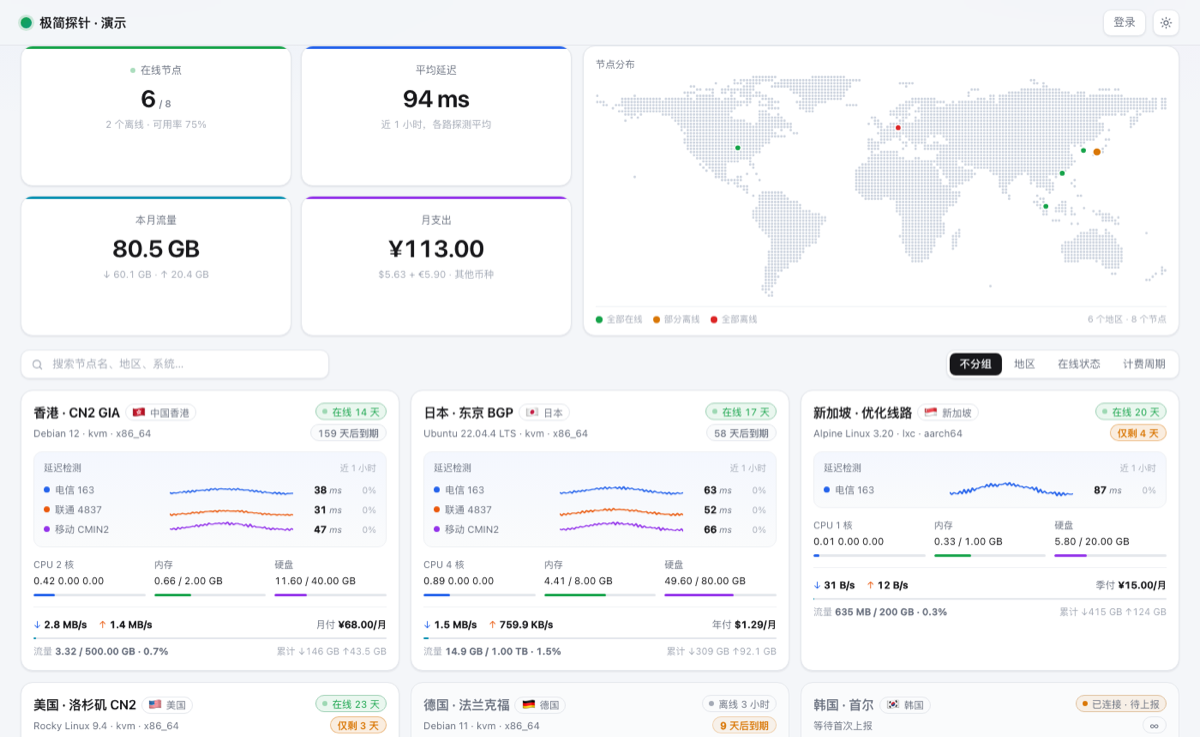
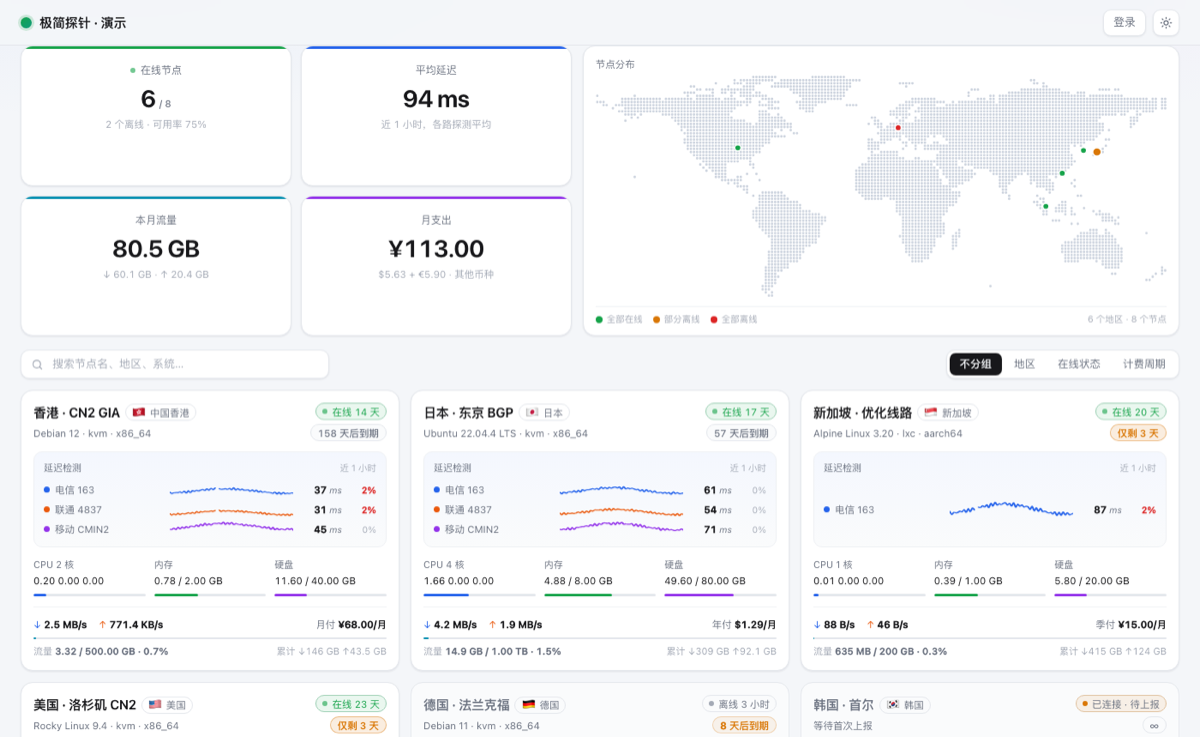
修复延迟检测行高跳动、加快波线加载、波线改平滑、修深色悬停阴影

diff --git a/minimal/dist/index.html b/minimal/dist/index.html
@@ -31,8 +31,11 @@ html.dark{
   --fg:#f2f3f5; --muted:#a1a7b3; --faint:#666c78;
   --ok:#22c55e; --warn:#f59e0b; --bad:#f87171; --accent:#60a5fa;
   --c1:#60a5fa; --c2:#fb923c; --c3:#c084fc; --c4:#22d3ee; --c5:#4ade80;
+  /* 深色下纯黑阴影落在近黑背景（--bg #0a0b0e）上几乎看不见，悬停就少了「抬起」的感觉。
+     补一圈极淡的浅色外描边 + 一点柔光：抬升在深色里也读得出来，而不只是边框变亮。 */
   --sh-1:0 1px 2px rgba(0,0,0,.5), 0 1px 3px rgba(0,0,0,.35);
-  --sh-2:0 14px 32px -12px rgba(0,0,0,.78), 0 3px 10px -4px rgba(0,0,0,.5);
+  --sh-2:0 16px 34px -14px rgba(0,0,0,.92), 0 4px 12px -5px rgba(0,0,0,.62),
+         0 0 0 1px rgba(255,255,255,.04), 0 0 24px -10px rgba(255,255,255,.07);
   --glow-1:rgba(96,165,250,.10); --glow-2:rgba(192,132,252,.075);
   --map-land:#2a3038;
 }
@@ -238,6 +241,13 @@ main{padding:18px 0 64px}
   background:linear-gradient(180deg,color-mix(in srgb,var(--c1) 5%,var(--panel)) 0%,var(--panel-2) 100%)}
 .lathead{display:flex;justify-content:space-between;align-items:baseline;gap:8px;font-size:11px;color:var(--muted);margin-bottom:5px}
 .lathead .hint{font-size:10.5px;color:var(--faint)}
+/* 行区高度固定为 CARD_PROBES 行（3 × 23px）：数据还没到时不会塌下去，
+   到达之后也不会有一次高度跳动。只有一行的状态（加载中、离线、无探测）在行区内垂直居中。 */
+.latrows{display:flex;flex-direction:column;justify-content:center;min-height:69px}
+/* 加载骨架：与真实行等高，轻微呼吸——说明「正在取数据」而不是「没有数据」 */
+.latrow.sk .pd{background:var(--line)}
+.latrow.sk .sp .skbar{flex:1;height:6px;border-radius:3px;background:var(--line-2);animation:skpulse 1.8s ease-in-out infinite}
+@keyframes skpulse{0%,100%{opacity:.5}50%{opacity:1}}
 .latrow{display:grid;grid-template-columns:minmax(0,1fr) minmax(32px,1.05fr) auto;align-items:center;gap:9px;height:23px;font-size:11.5px}
 .latrow .pn{display:flex;align-items:center;gap:6px;min-width:0;color:var(--muted)}
 /* 色点与曲线同色，一路一色；名称保持中性，三行彩色文字反而不好认 */
@@ -656,26 +666,54 @@ function onlyProbe(probes, id){
 }
 
 /* ---------------- 列表页：为在线节点取一小时延迟 ---------------- */
+var PING_TTL = 60000;     // 拿到曲线后的常规刷新周期
+var PING_RETRY = 6000;    // 还没拿到曲线时的首次重试间隔
 var pingTimer = null;
+var pingTry = {};         // id -> 上次发起请求的时间
+var pingWait = {};        // id -> 下次该等多久（指数退避，封顶 PING_TTL）
+var pingInflight = {};    // id -> 是否有请求在途，避免同一节点重复发
+/**
+ * 重绘合并。一个节点的延迟回来就整页重建一次，是 N² 的浪费（每个节点都要重建全部卡片），
+ * 节点一多就卡住、波线看着反而「加载慢」。攒到下一帧只画一次。
+ */
+var listRenderQueued = false;
+function scheduleListRender(){
+  if (listRenderQueued) return;
+  listRenderQueued = true;
+  var raf = window.requestAnimationFrame || function(f){ return setTimeout(f, 16); };
+  raf(function(){ listRenderQueued = false; if (route.kind === "list") renderListBody(); });
+}
 function refreshPing(){
   if (!state.nodes) return;
   var now = Date.now();
   state.nodes.forEach(function(n){
     if (!n.online) return;
-    var cur = state.ping[n.id];
-    if (cur && now - cur.at < 60000) return;
+    if (pingInflight[n.id]) return;
+    if (pingTry[n.id] && now - pingTry[n.id] < (pingWait[n.id] || PING_TTL)) return;
+    pingInflight[n.id] = true;
+    pingTry[n.id] = now;
     loadSeries(n.id, "ping", 1, CARD_POINTS).then(function(d){
+      pingInflight[n.id] = false;
       var s = pingSummary(d);
-      if (!s || !s.probes.length) return;
-      state.ping[n.id] = s;
-      if (route.kind === "list") renderListBody();
+      if (s) state.ping[n.id] = s;
+      // 拿到曲线才算「好了」，回到常规周期；否则（请求失败，或 hub 还没攒到样本）
+      // 从 6 秒起指数退避、最多退到常规周期——波线不必为一个失败的请求空等一整分钟。
+      if (s && s.probes.length){
+        pingWait[n.id] = PING_TTL;
+      } else {
+        var w = pingWait[n.id];
+        pingWait[n.id] = w && w < PING_TTL ? Math.min(PING_TTL, w * 2) : PING_RETRY;
+      }
+      scheduleListRender();
     });
   });
 }
 function startPing(){
   if (pingTimer) clearInterval(pingTimer);
   refreshPing();
-  pingTimer = setInterval(refreshPing, 60000);
+  // 心跳只负责「到点没有」的判断，真正的周期由 pingWait 决定；
+  // 所以这里要够密：心跳比重试间隔粗，重试就会被拖到下一个心跳（5 秒心跳会把 6 秒拖成 10 秒）。
+  pingTimer = setInterval(refreshPing, 2000);
 }
 
 /* ---------------- 图表（手写 SVG） ---------------- */
@@ -778,15 +816,37 @@ function spark(points, lo, hi){
   var w = 96, h = 20;
   var sx = function(i){ return n === 1 ? 0 : i/(n-1)*w; };
   var sy = function(v){ return h-1.5 - (v-mn)/rng*(h-3); };
-  var d = "", pen = false;
-  points.forEach(function(p, i){
-    if (!num(p.y)){ pen = false; return; }
-    d += (pen ? "L" : "M") + sx(i).toFixed(1) + " " + sy(p.y).toFixed(1) + " ";
-    pen = true;
-  });
+  var d = smoothPath(points.map(function(p, i){ return num(p.y) ? [sx(i), sy(p.y)] : null; }));
   if (!d) return "";
-  return '<svg viewBox="0 0 ' + w + ' ' + h + '" preserveAspectRatio="none" aria-hidden="true"><path d="' + d.trim() +
+  return '<svg viewBox="0 0 ' + w + ' ' + h + '" preserveAspectRatio="none" aria-hidden="true"><path d="' + d +
     '" fill="none" stroke="currentColor" stroke-width="1.4" stroke-linejoin="round" stroke-linecap="round"/></svg>';
+}
+/**
+ * 把点列连成平滑曲线：Catmull-Rom 转三次贝塞尔。曲线**穿过每个采样点**，
+ * 只在拐角处抹圆——不像滑动平均那样把尖峰压平，数据的形状仍然忠实。
+ * 传 null 表示断开（超时），断点两侧各自平滑，不跨断口连线。
+ */
+function smoothPath(pts){
+  var out = [], seg = [];
+  var tension = 6;   // 6 = 标准 Catmull-Rom；调大更接近折线，调小更圆
+  function flush(){
+    if (seg.length === 1){
+      out.push("M" + seg[0][0].toFixed(1) + " " + seg[0][1].toFixed(1));
+    } else if (seg.length >= 2){
+      out.push("M" + seg[0][0].toFixed(1) + " " + seg[0][1].toFixed(1));
+      for (var i = 0; i < seg.length - 1; i++){
+        var p0 = seg[i-1] || seg[i], p1 = seg[i], p2 = seg[i+1], p3 = seg[i+2] || p2;
+        var c1x = p1[0] + (p2[0]-p0[0])/tension, c1y = p1[1] + (p2[1]-p0[1])/tension;
+        var c2x = p2[0] - (p3[0]-p1[0])/tension, c2y = p2[1] - (p3[1]-p1[1])/tension;
+        out.push("C" + c1x.toFixed(1) + " " + c1y.toFixed(1) + " " + c2x.toFixed(1) + " " + c2y.toFixed(1) +
+          " " + p2[0].toFixed(1) + " " + p2[1].toFixed(1));
+      }
+    }
+    seg = [];
+  }
+  pts.forEach(function(p){ if (p) seg.push(p); else flush(); });
+  flush();
+  return out.join("");
 }
 
 /* ---------------- 通用片段 ---------------- */
@@ -850,19 +910,33 @@ function meter(label, pct, foot, fill){
  * 延迟检测块：一路探测一行，三网就有三行。
  * 卡片上最多列 CARD_PROBES 路，多出来的在详情页看——列表要的是「通不通、多快」，
  * 不是完整的多路曲线。
+ *
+ * 行区高度固定为 CARD_PROBES 行（见 CSS 的 .latrows）：数据还没到时不会塌下去，
+ * 到了之后也不会有一次高度跳动。加载中铺等高的骨架行，终态（离线/未接入/无探测）
+ * 把提示放进行区里垂直居中。
  */
 var CARD_PROBES = 3;
 function latencyBlock(n){
   var head = '<div class="lathead"><span>延迟检测</span><span class="hint">近 1 小时</span></div>';
   var solo = function(text){
-    return '<div class="latbox">' + head +
+    return '<div class="latbox">' + head + '<div class="latrows">' +
       '<div class="latrow solo"><span class="pn">' + esc(text) + '</span><span class="sp"></span>' +
-      '<span class="pv faint">—</span></div></div>';
+      '<span class="pv faint">—</span></div></div></div>';
+  };
+  // 骨架与真实行同构等高，占满整个行区：数据到达时高度零变化
+  var skeleton = function(){
+    var out = "";
+    for (var i = 0; i < CARD_PROBES; i++){
+      out += '<div class="latrow sk"><span class="pn"><i class="pd"></i></span>' +
+        '<span class="sp"><i class="skbar"></i></span>' +
+        '<span class="pv"><span class="ms"></span><i class="loss"></i></span></div>';
+    }
+    return '<div class="latbox">' + head + '<div class="latrows">' + out + '</div></div>';
   };
   if (!n.online) return solo(n.metrics == null && !(num(n.cpu_cores) && n.cpu_cores > 0) ? "未接入" : "离线");
   if (n.metrics == null) return solo("等待上报");
   var d = state.ping[n.id];
-  if (!d) return solo("检测中…");
+  if (!d) return skeleton();
   if (!d.probes.length) return solo("无探测");
   var shown = d.probes.slice(0, CARD_PROBES);
   // 三路共用一个纵轴范围，曲线的高低才可比。
@@ -888,7 +962,7 @@ function latencyBlock(n){
   }).join("");
   var more = d.probes.length > CARD_PROBES
     ? '<div class="latmore">另有 ' + (d.probes.length - CARD_PROBES) + ' 路探测，见详情页</div>' : "";
-  return '<div class="latbox">' + head + rows + more + '</div>';
+  return '<div class="latbox">' + head + '<div class="latrows">' + rows + '</div>' + more + '</div>';
 }
 
 /* ---------------- 列表页 ---------------- */

diff --git a/README.md b/README.md
@@ -180,6 +180,12 @@ monitor 探针的公开状态页主题。纯静态 SPA，**零依赖、零构建
 
 列表页取延迟时用 `points=60`：迷你曲线只有一百来像素宽，按设备像素宽度去要会让每个节点都发一次大响应。
 
+**延迟检测块的行高是固定的**。行区（`.latrows`）高度锁在 `CARD_PROBES` 行上，所以「还没取到延迟」不会让卡片塌下去，数据到达后也不会有一次高度跳动。加载中铺的是等高的骨架行（轻微呼吸），终态（离线 / 未接入 / 无探测）则把一行提示放进行区里垂直居中——几种状态的外框完全一样高。
+
+迷你曲线是**平滑曲线**而不是折线：Catmull-Rom 转三次贝塞尔，曲线穿过每个采样点，只在拐角处抹圆，不像滑动平均那样把尖峰压平。超时（null）处断开，两侧各自平滑。
+
+**延迟不是只在启动时取一次。** 拿到曲线后按 60 秒刷新；取不到（请求失败，或 hub 还没攒到样本）时按 6s → 12s → 24s 指数退避重试，最多退到 60 秒。定时器本身每 2 秒跑一次、只做「到点没有」的判断——心跳比重试间隔粗的话，6 秒重试会被拖到下一个心跳。取回结果也不让每个节点各重绘一次整页（节点一多就是 N² 次全量重建），而是合并到下一帧只画一次。
+
 卡片内容密度较高（三路延迟 + 三条占用 + 速率费用流量），所以网格最多排三列，断点在 780 / 1140 px，以保证占用条的数值不被截断。
 
 ## 配色
@@ -197,6 +203,8 @@ monitor 探针的公开状态页主题。纯静态 SPA，**零依赖、零构建
 
 底色本身保持克制（浅色 `#f4f6f9`，深色 `#0a0b0e`），色彩都落在数据本身上。
 
+**深色下的「抬起」不能只靠黑阴影。** 阴影是纯黑时，落在近黑底色上几乎看不见，悬停就少了抬升感。所以 `html.dark` 的 `--sh-2` 在两级黑阴影之外，额外补了一圈极淡的浅色外描边 + 一点柔光——抬升在深色里也读得出来。浅色主题不需要这层，原样的投影已经足够。
+
 ## 目录结构
 
 ```
@@ -207,7 +215,9 @@ monitor 探针的公开状态页主题。纯静态 SPA，**零依赖、零构建
 │   └── dist/index.html       # 主题本体，唯一必需文件
 ├── dev/
 │   ├── mock-server.mjs       # 本地预览用的假 hub
-│   ├── test.mjs              # 纯函数自测，223 项
+│   ├── gen-map.mjs           # 由 Natural Earth 生成地图点阵并注入主题
+│   ├── test.mjs              # 纯函数自测，234 项
+│   ├── cdp-shot.mjs          # CDP 截图，能强制 :hover —— 命令行截图做不到
 │   └── package.mjs           # 打包 + 契约校验
 ├── .github/workflows/        # ci.yml 与 release.yml
 ├── LICENSE
@@ -239,10 +249,13 @@ node dev/mock-server.mjs --port 9911     # 打开 http://127.0.0.1:9911/
 | `--freeze` | WS 只推一次就静默，便于无头浏览器截图时页面进入空闲 |
 | `--nows` | 拒绝 WebSocket 升级，强制主题走 5 秒轮询的降级路径 |
 | `--closed` | 头 1.5 秒假装公开页可用，之后 `/api/nodes` 一律 401、`/api/me` 改口 `public_page: false`，用来验证运行期关闭时主题会重查 `/me` 并跳转后台 |
+| `--fail-ping` | 延迟曲线一律 500，并打印每次请求的时间戳。用来验证「取不到数据」时的界面，以及客户端是不是按 6s→12s→24s 指数退避重试（请求会正常结束，无头浏览器的虚拟时间不会被挂住的请求卡死） |
+| `--delay-ping <ms>` | 把延迟曲线的响应压后。本地假后端太快，加载态一闪而过；要截「波线还没到」的骨架就得人为拖慢 |
 | `?dark=1` | 以深色模式启动（无头浏览器改不了 `prefers-color-scheme`） |
 | `?click=smooth,only2` | 渲染完成后依次点击，用来在无头环境里截取交互态（`smooth` / `despike` / `only1..3` / `range6`，也可直接写选择器） |
 | `?q=日本` / `?group=region` / `?popup=JP` | 直接把主界面的状态摆好，用来在无头环境里截取筛选、分组、地图弹窗的样子 |
 | `?probe=geo` | 把关键元素的 `getBoundingClientRect` 与 `computed display` 写进 `document.title`。判断「有没有对齐」必须量，不能靠看截图猜 |
+| `?probe=lat` | 量每张卡片延迟检测块的 `.latbox` / `.latrows` 高度与行数。确认「行高固定」就靠它——骨架态、数据态、离线卡片三者必须同高 |
 
 对着真实 hub 开发时，起一个 hub 实例即可（主题侧无需代理配置，因为本主题不跑 Vite）：
 
@@ -255,9 +268,14 @@ monitor-hub --listen 127.0.0.1:9911 --db /tmp/monitor.db --site http://127.0.0.1
 ```bash
 node dev/test.mjs        # 纯函数自测，失败退出码非零
 node dev/package.mjs     # 校验 theme.json / 目录名 / 体积上限，然后打包
+
+# 需要看悬停态时用 CDP（命令行 --screenshot 截不到 :hover）：
+node dev/cdp-shot.mjs "http://127.0.0.1:9911/?dark=1" /tmp/hover.png --hover ".card" --clip ".card"
 ```
 
-`dev/test.mjs` 的做法是给主题脚本喂一个最小 DOM 桩后整体求值，因此不需要测试框架，也不需要把函数拆成模块——脚本顶层声明在 vm 里会挂到全局对象上，直接取来调用即可。覆盖：数字格式化与时长换算的边界（0、负数、小数、NaN、缺字段）、费用折算与多币种分组、延迟样本分组与迷你曲线、削峰 / 平滑 / 单路隔离的曲线处理、地区合并与配色、搜索匹配与分组、国旗拼装与到期分级、坏数据降级、地区码与坐标轴取整。
+`dev/cdp-shot.mjs` 走 CDP，除了截图还能用 `CSS.forcePseudoState` **强制伪类**、用 `--clip` 裁到元素级、用 `--css` 注入一段样式做「改前 / 改后」对照（不必来回改源文件）。
+
+`dev/test.mjs` 的做法是给主题脚本喂一个最小 DOM 桩后整体求值，因此不需要测试框架，也不需要把函数拆成模块——脚本顶层声明在 vm 里会挂到全局对象上，直接取来调用即可。覆盖：数字格式化与时长换算的边界（0、负数、小数、NaN、缺字段）、费用折算与多币种分组、延迟样本分组与迷你曲线（含平滑曲线的断点与不引入起伏）、延迟检测块的固定行区结构、削峰 / 平滑 / 单路隔离的曲线处理、地区合并与配色、搜索匹配与分组、国旗拼装与到期分级、坏数据降级、地区码与坐标轴取整。
 
 ## 接口契约
 
